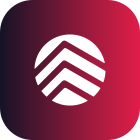
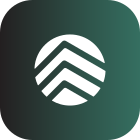
feat(branding): the connector's Odoo screens in the Osool App colour scheme
The settings block and the dashboard were skinned with RealEstateApp's crimson/indigo palette, copied from
the app's old tokens. They now mirror the app's Osool tokens: green #356F61, dark #231F20, the same
re-tinted neutrals and lifted dark-theme greens. The listing banner is the brand guideline's own cover
(the dark-to-green gradient with the all-white logo), the store page follows, and the settings-screen
logos are the designer's own colours.

diff --git a/realestateapp_connector/static/description/index.html b/realestateapp_connector/static/description/index.html
@@ -1,9 +1,9 @@
 <section style="font-family:-apple-system,'Segoe UI',Roboto,sans-serif;color:#14181d;line-height:1.6">
 
-  <div style="padding:44px 40px;background:#e11d48;border-radius:12px;margin-bottom:32px;color:#fff">
+  <div style="padding:44px 40px;background:linear-gradient(90deg,#231f20,#356f61);border-radius:12px;margin-bottom:32px;color:#fff">
     <div style="display:flex;align-items:center;gap:18px;margin-bottom:20px">
       <span style="display:inline-flex;align-items:center;justify-content:center;width:60px;height:60px;background:#fff;border-radius:14px">
[2 lines of base64/hex data omitted]
       </span>
       <span style="font-size:15px;font-weight:600;letter-spacing:.14em;opacity:.9">OSOOL ODOO CONNECTOR</span>
     </div>
@@ -28,12 +28,12 @@
   <h2 style="font-size:22px;font-weight:700;margin:0 0 14px">How it works</h2>
   
   <div style="display:flex;gap:14px;margin-bottom:14px;align-items:flex-start">
-    <span style="flex:0 0 30px;height:30px;background:#e11d48;color:#fff;border-radius:50%;display:inline-flex;align-items:center;justify-content:center;font-weight:700;font-size:15px">1</span>
+    <span style="flex:0 0 30px;height:30px;background:#356f61;color:#fff;border-radius:50%;display:inline-flex;align-items:center;justify-content:center;font-weight:700;font-size:15px">1</span>
     <p style="margin:3px 0 0;color:#43505c">In Osool App, open <strong style="color:#14181d">Connectors &rarr; Odoo</strong> and press <strong style="color:#14181d">Get a pairing code</strong>.</p>
   </div>
   
   <div style="display:flex;gap:14px;margin-bottom:14px;align-items:flex-start">
-    <span style="flex:0 0 30px;height:30px;background:#e11d48;color:#fff;border-radius:50%;display:inline-flex;align-items:center;justify-content:center;font-weight:700;font-size:15px">2</span>
+    <span style="flex:0 0 30px;height:30px;background:#356f61;color:#fff;border-radius:50%;display:inline-flex;align-items:center;justify-content:center;font-weight:700;font-size:15px">2</span>
     <p style="margin:3px 0 0;color:#43505c">In Odoo, open <strong style="color:#14181d">Settings &rarr; Osool Odoo Connector</strong>, paste the code, and press <strong style="color:#14181d">Connect</strong>.</p>
   </div>
   <p style="margin:16px 0 30px;color:#43505c">
@@ -53,7 +53,7 @@
     </tr>
   </table>
 
-  <div style="border-left:4px solid #1d0e7f;background:#f6f7f8;padding:22px 26px;border-radius:8px;margin-bottom:30px">
+  <div style="border-left:4px solid #231f20;background:#f6f7f8;padding:22px 26px;border-radius:8px;margin-bottom:30px">
     <h2 style="font-size:20px;font-weight:700;margin:0 0 12px">Your credentials stay yours</h2>
     <ul style="margin:0;padding-left:20px;color:#43505c">
       <li style="margin-bottom:9px"><strong style="color:#14181d">Your password is never used or sent.</strong> The app generates an API key for the integration instead.</li>
@@ -77,7 +77,7 @@
   </p>
 
   <div style="border-top:1px solid #d9dee3;padding-top:20px;color:#6d7c88;font-size:14px">
-    <a href="https://osoolapp.ae" style="color:#e81a47;text-decoration:none;font-weight:600">Osool App</a>
+    <a href="https://osoolapp.ae" style="color:#356f61;text-decoration:none;font-weight:600">Osool App</a>
     &nbsp;&middot;&nbsp; property management for the UAE &nbsp;&middot;&nbsp; published by ASICO Property Management
     <div style="margin-top:8px">Developed by Shoaib Ahmed &mdash; Developer (ASICO)</div>
   </div>

diff --git a/realestateapp_connector/static/src/scss/dashboard.scss b/realestateapp_connector/static/src/scss/dashboard.scss
@@ -2,21 +2,21 @@
 //
 // Same scope rule as settings.scss: every selector lives under .o_reax_dash, which only the
 // dashboard component renders. Colours are the app's own tokens (src/styles/global.css literals) —
-// crimson primary, indigo select, soft field background, rounded-3xl white cards.
+// Osool green primary, Osool dark select, soft field background, rounded-3xl white cards.
 
 .o_reax_dash {
-  --reax-primary: #e11d48;
-  --reax-select:  #1d0e7f;
-  --reax-ink:     #141326;
-  --reax-muted:   #5a6076;
+  --reax-primary: #356f61;
+  --reax-select:  #231f20;
+  --reax-ink:     #231f20;
+  --reax-muted:   #566560;
   --reax-card:    #ffffff;
-  --reax-border:  #e7eaf3;
+  --reax-border:  #e6ecea;
   --reax-field:   #f4f6fb;
   --reax-success: #0e9f6e;
   --reax-warning: #c27803;
   --reax-danger:  #e02424;
-  --reax-shadow:  0 1px 2px -1px rgba(20, 19, 38, .09), 0 2px 6px -2px rgba(20, 19, 38, .07);
-  --reax-shadow-lift: 0 10px 24px -10px rgba(20, 19, 38, .18);
+  --reax-shadow:  0 1px 2px -1px rgba(35, 31, 32, .09), 0 2px 6px -2px rgba(35, 31, 32, .07);
+  --reax-shadow-lift: 0 10px 24px -10px rgba(35, 31, 32, .18);
 
   height: 100%;
   overflow: auto;
@@ -72,10 +72,10 @@
     padding: 9px 16px;
     border-radius: 10px;
     cursor: pointer;
-    box-shadow: 0 6px 16px -6px rgba(225, 29, 72, .45);
+    box-shadow: 0 6px 16px -6px rgba(53, 111, 97, .45);
     transition: transform .15s ease, box-shadow .15s ease, background .15s ease;
 
-    &:hover:not(:disabled) { background: #cb1a41; transform: translateY(-1px); }
+    &:hover:not(:disabled) { background: #306457; transform: translateY(-1px); }
     &:disabled { opacity: .7; cursor: default; }
   }
 
@@ -109,7 +109,7 @@
     padding: 0;
     transition: transform .15s ease, box-shadow .15s ease, border-color .15s ease;
 
-    &:hover { transform: translateY(-2px); box-shadow: var(--reax-shadow-lift); border-color: rgba(225, 29, 72, .35); }
+    &:hover { transform: translateY(-2px); box-shadow: var(--reax-shadow-lift); border-color: rgba(53, 111, 97, .35); }
     &:focus-visible { outline: 2px solid var(--reax-select); outline-offset: 2px; }
   }
 
@@ -128,7 +128,7 @@
     width: 40px;
     height: 40px;
     border-radius: 12px;
-    background: rgba(29, 14, 127, .08);
+    background: rgba(53, 111, 97, .08);
     color: var(--reax-select);
     font-size: 16px;
   }
@@ -164,7 +164,7 @@
   }
 
   // tones tint the chip, so state reads at a glance without shouting
-  .tone-indigo .reax-chip { background: rgba(29, 14, 127, .10);  color: var(--reax-select); }
+  .tone-indigo .reax-chip { background: rgba(53, 111, 97, .10);  color: var(--reax-select); }
   .tone-green  .reax-chip { background: rgba(14, 159, 110, .12); color: var(--reax-success); }
   .tone-amber  .reax-chip { background: rgba(194, 120, 3, .12);  color: var(--reax-warning); }
   .tone-red    .reax-chip { background: rgba(224, 36, 36, .10);  color: var(--reax-danger); }

diff --git a/realestateapp_connector/static/src/scss/settings.scss b/realestateapp_connector/static/src/scss/settings.scss
@@ -19,23 +19,23 @@ $reax-tab: ".settings_tab .tab[data-key='realestateapp_connector']";
 
 #{$reax} {
   // ---- tokens, straight from the app -------------------------------------------------------------
-  --reax-primary:      #e11d48;   // crimson, the app's primary
-  --reax-primary-dark: #cb1a41;   // primary at 90%, pre-resolved for :hover
+  --reax-primary:      #356f61;   // Osool green, the app's primary
+  --reax-primary-dark: #306457;   // Osool green at 90%, pre-resolved for :hover
   --reax-on-primary:   #ffffff;
-  --reax-select:       #1d0e7f;   // indigo — selection, active, focus ring
-  --reax-brand:        #e81a47;   // pink accent — links, highlights
-  --reax-ink:          #141326;
-  --reax-muted:        #5a6076;
+  --reax-select:       #231f20;   // the Osool dark — selection, active
+  --reax-brand:        #356f61;   // Osool green — links, highlights
+  --reax-ink:          #231f20;
+  --reax-muted:        #566560;
   --reax-card:         #ffffff;
-  --reax-border:       #e7eaf3;
+  --reax-border:       #e6ecea;
   --reax-field:        #f4f6fb;
   --reax-success:      #0e9f6e;
   --reax-warning:      #c27803;
   --reax-danger:       #e02424;
   --reax-radius:       0.85rem;   // app --radius; inner controls use calc(- 2px)
   --reax-panel-radius: 24px;      // rounded-3xl — the app's real card radius
-  --reax-shadow:       0 1px 2px -1px rgba(20, 19, 38, .09), 0 2px 6px -2px rgba(20, 19, 38, .07);
-  --reax-shadow-btn:   0 6px 16px -6px rgba(25, 18, 72, .42);
+  --reax-shadow:       0 1px 2px -1px rgba(35, 31, 32, .09), 0 2px 6px -2px rgba(35, 31, 32, .07);
+  --reax-shadow-btn:   0 6px 16px -6px rgba(53, 111, 97, .38);
 
   color: var(--reax-ink);
 
@@ -146,7 +146,7 @@ $reax-tab: ".settings_tab .tab[data-key='realestateapp_connector']";
 
     &:focus {
       border-color: var(--reax-select);
-      box-shadow: 0 0 0 3px rgba(29, 14, 127, .12);
+      box-shadow: 0 0 0 3px rgba(53, 111, 97, .12);
     }
   }
 
@@ -191,7 +191,7 @@ $reax-tab: ".settings_tab .tab[data-key='realestateapp_connector']";
 // The entry in the settings sidebar — give it the brand colour when it is the selected app.
 #{$reax-tab} {
   &.selected {
-    color: var(--reax-primary, #e11d48);
-    border-color: var(--reax-primary, #e11d48);
+    color: var(--reax-primary, #356f61);
+    border-color: var(--reax-primary, #356f61);
   }
 }

diff --git a/realestateapp_connector/static/src/js/reax_dashboard.js b/realestateapp_connector/static/src/js/reax_dashboard.js
@@ -14,14 +14,14 @@ import { useService } from "@web/core/utils/hooks";
 import { loadBundle, loadJS } from "@web/core/assets";
 
 // The app's palette (src/styles/global.css literals, same as settings.scss).
-const INK = "#141326";
-const MUTED = "#5a6076";
-const INDIGO = "#1d0e7f";
-const CRIMSON = "#e11d48";
+const INK = "#231f20";
+const MUTED = "#566560";
+const DEEP = "#231f20";   // the Osool dark
+const PRIMARY = "#356f61";   // Osool green
 const GREEN = "#0e9f6e";
 const AMBER = "#c27803";
 const RED = "#e02424";
-const WHEEL = [INDIGO, CRIMSON, GREEN, AMBER, "#6366f1", "#0ea5e9", "#a855f7", "#64748b"];
+const WHEEL = [DEEP, PRIMARY, GREEN, AMBER, "#6366f1", "#0ea5e9", "#a855f7", "#64748b"];
 
 const nf = new Intl.NumberFormat("en-US");
 const nf2 = new Intl.NumberFormat("en-US", { minimumFractionDigits: 2, maximumFractionDigits: 2 });
@@ -206,7 +206,7 @@ export class ReaxDashboard extends Component {
             data: {
                 labels: months.map((m) => this.monthLabel(m.month)),
                 datasets: [
-                    { label: "Invoiced", data: months.map((m) => m.invoiced), backgroundColor: INDIGO, borderRadius: 5, maxBarThickness: 26 },
+                    { label: "Invoiced", data: months.map((m) => m.invoiced), backgroundColor: DEEP, borderRadius: 5, maxBarThickness: 26 },
                     { label: "Collected", data: months.map((m) => m.collected), backgroundColor: GREEN, borderRadius: 5, maxBarThickness: 26 },
                 ],
             },
@@ -249,7 +249,7 @@ export class ReaxDashboard extends Component {
             type: "bar",
             data: {
                 labels: leads.map((r) => r.label),
-                datasets: [{ label: "Leads", data: leads.map((r) => r.value), backgroundColor: CRIMSON, borderRadius: 5, maxBarThickness: 18 }],
+                datasets: [{ label: "Leads", data: leads.map((r) => r.value), backgroundColor: PRIMARY, borderRadius: 5, maxBarThickness: 18 }],
             },
             options: {
                 ...base,

diff --git a/realestateapp_connector/static/src/scss/settings.dark.scss b/realestateapp_connector/static/src/scss/settings.dark.scss
@@ -3,26 +3,26 @@
 // Loaded into web.assets_web_dark, which already includes web.assets_backend, so settings.scss has run
 // and only the tokens need redefining. Same scope rule applies: nothing here may escape the block.
 //
-// These are Osool App's own dark tokens (src/styles/global.css, .dark), not a naive inversion. The
-// crimson is lifted and the indigo brightened, because both are unreadable at full saturation on a dark
-// ground — which is the usual way a "dark mode" ends up shipped broken.
+// These are Osool App's own dark tokens (src/styles/global.css, .dark), not a naive inversion. The Osool
+// green is lifted for text and rings, because at full depth it is unreadable on a dark ground — which is
+// the usual way a "dark mode" ends up shipped broken.
 
 $reax: ".app_settings_block[data-key='realestateapp_connector']";
 
 #{$reax} {
-  --reax-primary:      #f2547d;   // crimson lifted for a dark ground
-  --reax-primary-dark: #e11d48;
-  --reax-on-primary:   #1a0b12;
-  --reax-select:       #a99cff;   // indigo brightened
-  --reax-brand:        #ff6b8a;
-  --reax-ink:          #ecebf8;
-  --reax-muted:        #9a9ab4;
-  --reax-card:         #1a1a26;
-  --reax-border:       #2b2b3a;
-  --reax-field:        #21212e;
+  --reax-primary:      #6ca697;   // Osool green lifted for a dark ground
+  --reax-primary-dark: #478072;
+  --reax-on-primary:   #0b1a16;
+  --reax-select:       #6ca697;   // lifted Osool green
+  --reax-brand:        #6ca697;
+  --reax-ink:          #e8efed;
+  --reax-muted:        #94a49f;
+  --reax-card:         #151d1b;
+  --reax-border:       #252f2c;
+  --reax-field:        #1c2522;
   --reax-success:      #4fd3a0;
   --reax-warning:      #e3a85b;
-  --reax-danger:       #ff7a96;
+  --reax-danger:       #f0503c;   // the app's dark --destructive
   --reax-shadow:       0 1px 2px rgba(0, 0, 0, .4), 0 8px 24px -12px rgba(0, 0, 0, .6);
   --reax-shadow-btn:   0 6px 16px -6px rgba(0, 0, 0, .7);
 

diff --git a/realestateapp_connector/__manifest__.py b/realestateapp_connector/__manifest__.py
@@ -78,7 +78,7 @@ Developed by Shoaib Ahmed — Developer (ASICO), for ASICO Property Management.
     },
     # The cover image apps.odoo.com shows on the listing. Both this and static/description/icon.png are
     # rendered by scripts/build-odoo-listing.ts from the platform's brand files (public/brand/osool/) in the
-    # Osool App repo, in the palette from its global.css — crimson #e11d48, accent #e81a47, indigo #1d0e7f.
+    # Osool App repo, in the palette from its global.css — Osool green #356F61 and Osool dark #231F20.
     'images': ['static/description/banner.png'],
     'installable': True,
     'application': True,

diff --git a/CONTRIBUTING.md b/CONTRIBUTING.md
@@ -34,15 +34,15 @@ The listing assets are done, and rendered from the app's OWN brand files rather 
 | File | Source |
 |---|---|
 | `static/description/icon.png` (140×140) | `public/brand/osool/appicon.svg`, rasterised with sharp |
-| `static/description/banner.png` (1200×600) | `public/brand/osool/logo-mono-white.svg` (all white) on crimson `#e11d48` |
-| `static/description/index.html` | palette from `src/styles/global.css` — `#e11d48` / `#e81a47` / `#1d0e7f` |
+| `static/description/banner.png` (1200×600) | `public/brand/osool/logo-mono-white.svg` (all white) on the guideline's cover gradient `#231F20` → `#356F61` |
+| `static/description/index.html` | palette from `src/styles/global.css` — Osool green `#356F61`, Osool dark `#231F20` |
 
 Both are rendered by `scripts/build-odoo-listing.ts` in the app repo — run it after replacing the files in
 `public/brand/osool/`. The platform is Osool App; `/brand/REA-*` is the RealEstateApp company's own logo and is
 no longer the connector's source.
 
 The banner uses the ALL-WHITE logo — the brand guideline's own treatment on a coloured ground. The
-platform's coloured mark is a crimson gradient, which on a crimson banner would render as an invisible
+platform's coloured mark is a dark-to-green gradient, which on the dark-to-green cover would render as an invisible
 sliver. If the branding changes, regenerate rather than editing pixels.
 
 The repository is **public**, so Odoo's builder can read it with no extra authorisation. If it is ever made
